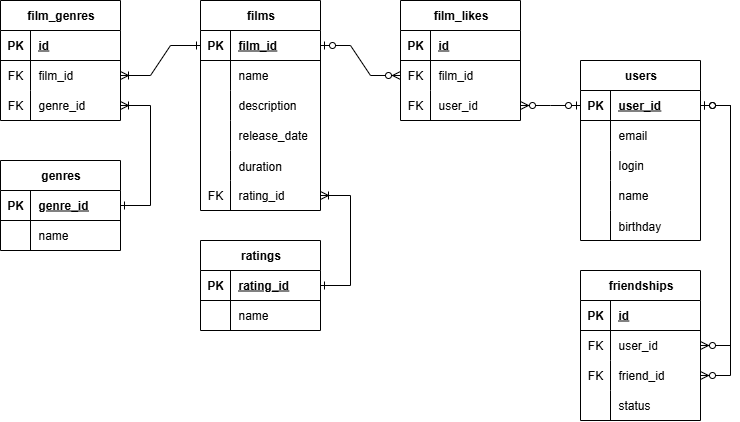
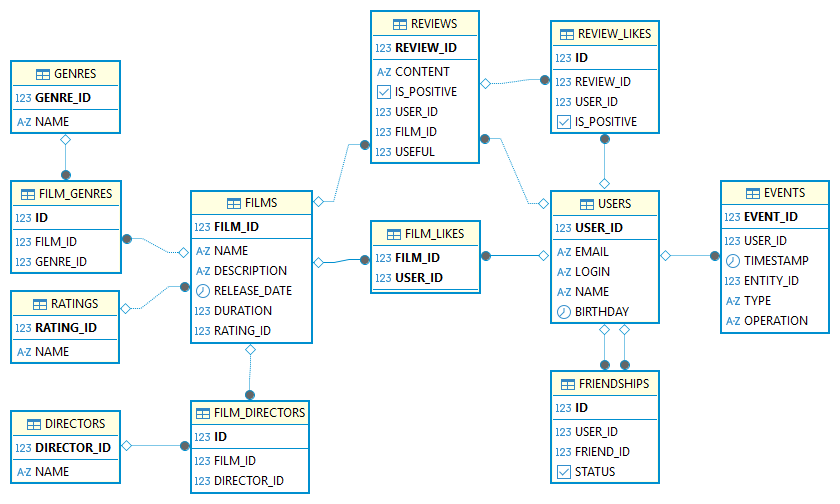
fix: скорректировать диаграмму БД и описание таблиц

diff --git a/README.md b/README.md
@@ -4,37 +4,16 @@
 
 ## Описание таблиц
 
-* `film` - фильмы
-* `genre` - жанр
-* `rating` - MPA-рейтинг
-* `film_genre` - промежуточная таблица для связи фильмов и жанров (у фильма может быть несколько жанров)
-* `user` - пользователь
+* `films` - фильмы
+* `genres` - жанр
+* `ratings` - MPA-рейтинг
+* `film_genres` - промежуточная таблица для связи фильмов и жанров
+* `users` - пользователь
 * `film_likes` - промежуточная таблица для лайков пользователей
-* `friendship` - промежуточная таблица для дружеских связей
+* `friendships` - промежуточная таблица для дружеских связей
+* `directors` - режиссёры
+* `film_directors` - промежуточная таблица для связи фильмов и режиссёров
+* `reviews` - отзывы
+* `review_likes` - оценки отзывов
+* `events` - действия пользователей для ленты событий
 
-## Примеры запросов
-
-### Получить все фильмы
-```
-SELECT *
-FROM film;
-```
-
-### Получить жанры фильма с указанным id
-
-```
-SELECT g.name
-FROM film AS f
-INNER JOIN film_genre AS fg ON f.film_id = fg.film_id
-INNER JOIN genre AS g ON fg.genre_id = g.genre_id
-WHERE f.film_id = <искомый id>;
-```
-
-### Получить количество лайков фильма с указанным id
-```
-SELECT COUNT(*)
-FROM film AS f
-INNER JOIN film_likes AS fl ON f.film_id = fl.film_id
-WHERE f.film_id = <искомый id>
-GROUP BY fl.film_id;
-```
